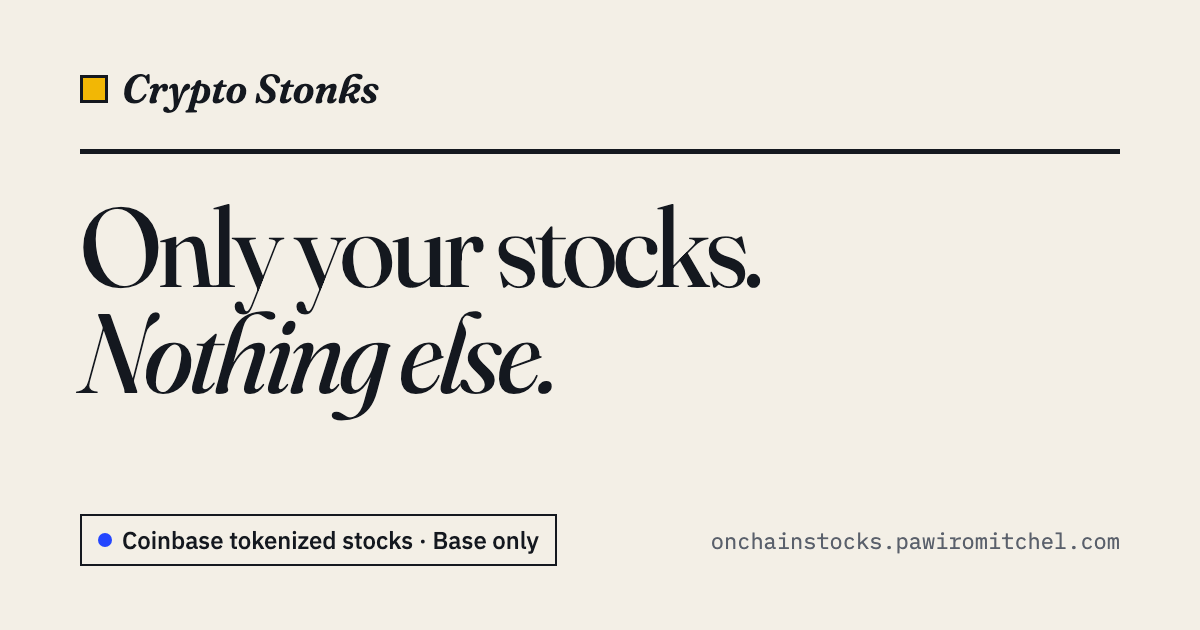
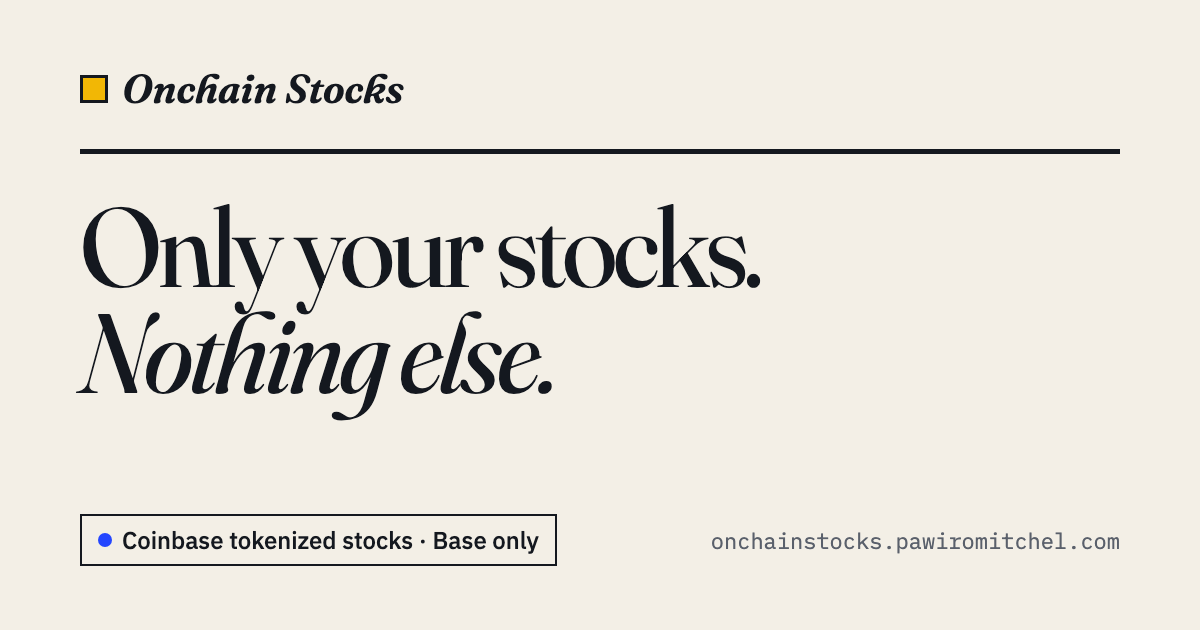
Rename the site to Onchain Stocks
"Crypto Stonks" clashed with the sober newspaper look, was vague about
what the site shows, and did not match the onchainstocks domain. The
new name matches the URL, so tab titles, shared links and the address
bar all say the same thing. Scope stays in the tagline.

Changed region(s): [[0.0925, 0.1206, 0.3392, 0.181]]

diff --git a/index.html b/index.html
@@ -4,12 +4,12 @@
     <meta charset="UTF-8" />
     <link rel="icon" type="image/svg+xml" href="./favicon.svg" />
     <meta name="viewport" content="width=device-width, initial-scale=1.0" />
-    <title>Crypto Stonks</title>
+    <title>Onchain Stocks</title>
     <meta name="description" content="See your Coinbase tokenized stock balances on Base. Connect any EVM wallet or look up an address or ENS name, view only." />
     <link rel="canonical" href="https://onchainstocks.pawiromitchel.com/" />
     <meta property="og:type" content="website" />
-    <meta property="og:site_name" content="Crypto Stonks" />
-    <meta property="og:title" content="Crypto Stonks: your Coinbase tokenized stocks on Base" />
+    <meta property="og:site_name" content="Onchain Stocks" />
+    <meta property="og:title" content="Onchain Stocks: your Coinbase tokenized stocks on Base" />
     <meta property="og:description" content="See your Coinbase tokenized stock balances on Base. Connect any EVM wallet or look up an address or ENS name, view only." />
     <meta property="og:url" content="https://onchainstocks.pawiromitchel.com/" />
     <meta property="og:image" content="https://onchainstocks.pawiromitchel.com/og.png" />
@@ -47,7 +47,7 @@
     <div id="root">
       <div class="shell">
         <header class="header">
-          <a class="brand" href="#/" aria-label="Crypto Stonks home"><span class="brand-mark"></span><span class="brand-name">Crypto Stonks</span></a>
+          <a class="brand" href="#/" aria-label="Onchain Stocks home"><span class="brand-mark"></span><span class="brand-name">Onchain Stocks</span></a>
           <nav class="nav" aria-label="Main">
             <a href="#/" data-nav="home">Portfolio</a><a href="#/stocks" data-nav="stocks">Stocks</a><a href="#/about" data-nav="about">About</a>
           </nav>

diff --git a/src/components/Header.tsx b/src/components/Header.tsx
@@ -21,9 +21,9 @@ export function Header({
 }) {
   return (
     <header className="header">
-      <a className="brand" href="#/" aria-label="Crypto Stonks home">
+      <a className="brand" href="#/" aria-label="Onchain Stocks home">
         <span className="brand-mark" />
-        <span className="brand-name">Crypto Stonks</span>
+        <span className="brand-name">Onchain Stocks</span>
       </a>
       <nav className="nav" aria-label="Main">
         {NAV.map((n) => (

diff --git a/src/App.tsx b/src/App.tsx
@@ -68,7 +68,7 @@ function ViewOnly({ target }: { target: string }) {
   )
 }
 
-const SITE = 'Crypto Stonks'
+const SITE = 'Onchain Stocks'
 
 function titleFor(route: Route) {
   switch (route.name) {

diff --git a/AGENTS.md b/AGENTS.md
@@ -1,6 +1,6 @@
 # AGENTS.md
 
-Guidance for AI coding agents (Antigravity, Claude Code, Codex, Cursor, etc.) working on **Crypto Stonks** (repo: `onchainstocks`).
+Guidance for AI coding agents (Antigravity, Claude Code, Codex, Cursor, etc.) working on **Onchain Stocks** (repo: `onchainstocks`).
 Read this first. Keep it current when you change behavior, design tokens or workflows.
 
 ## What this is
@@ -169,7 +169,6 @@ Build output is relative (`base: './'`) with hash routing, so it works at any pa
 ## Open items / ideas
 
 - Verify each venue deep link in `lib/venues.ts` by clicking through.
-- Brand name: "Crypto Stonks" vs the `onchainstocks` domain (undecided).
 - WalletConnect for mobile wallets (needs a Reown project ID).
 - Further speed: the ~106 KB of web fonts compete with JS on first load; lazy-loading wagmi/viem until a wallet is needed would take ~60 KB off the critical path (bigger refactor).
 - E2E for real ENS resolution.

diff --git a/README.md b/README.md
@@ -1,6 +1,6 @@
 # onchainstocks
 
-Crypto Stonks: a stock-only portfolio viewer for [Coinbase tokenized stocks on Base](https://www.base.org/stocks).
+Onchain Stocks: a stock-only portfolio viewer for [Coinbase tokenized stocks on Base](https://www.base.org/stocks).
 
 - Connect MetaMask, Rabby or any other EVM wallet and see your balances of every Coinbase-issued stock token on Base (40 at the time of writing).
 - Buy or swap links per stock (Aerodrome first, plus Uniswap, Matcha, 1inch and CoW Swap).
